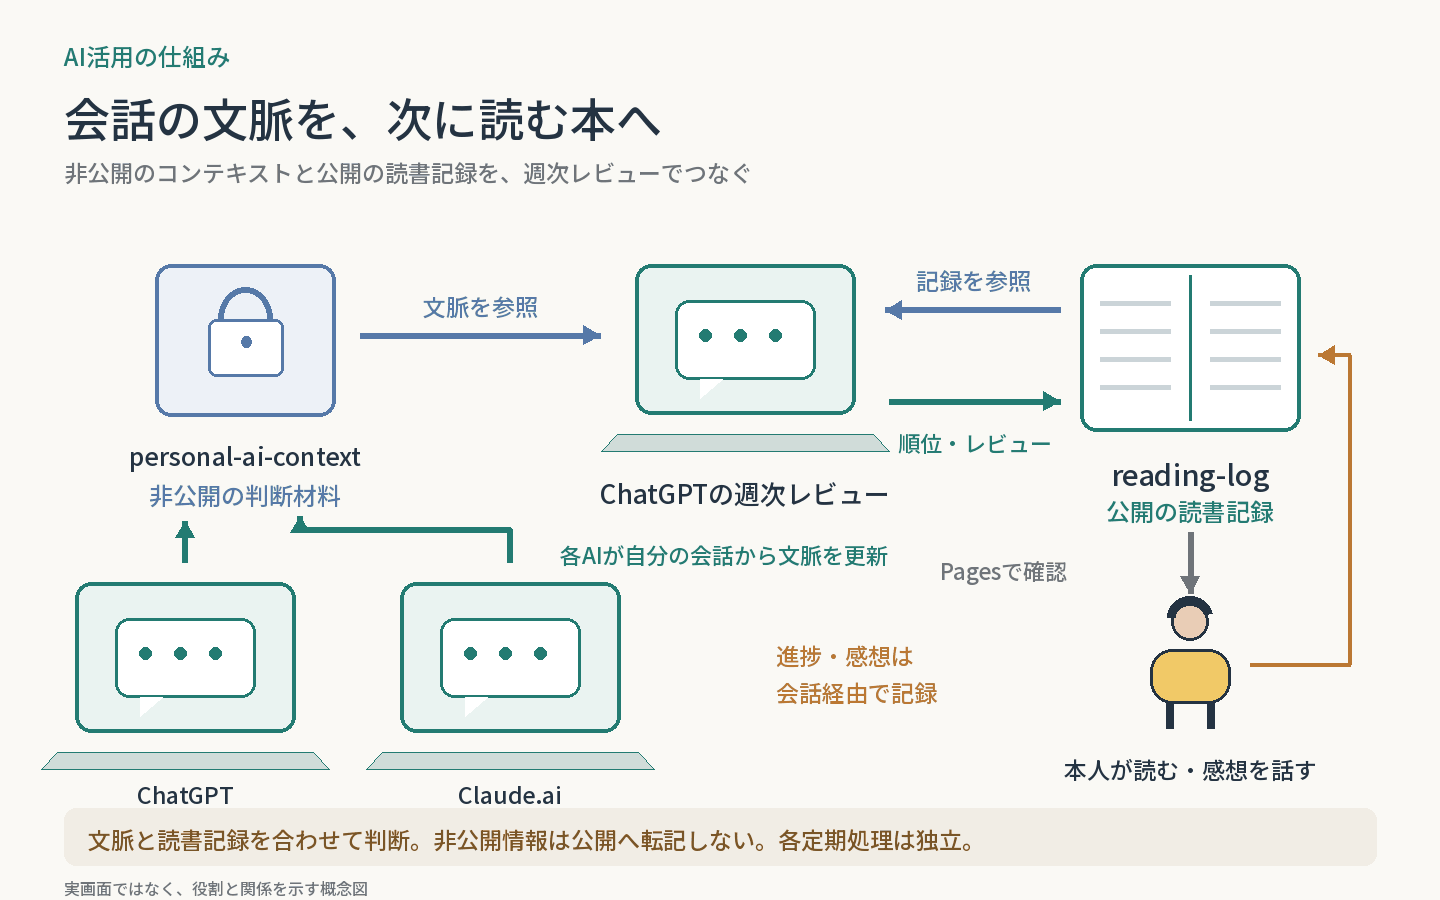
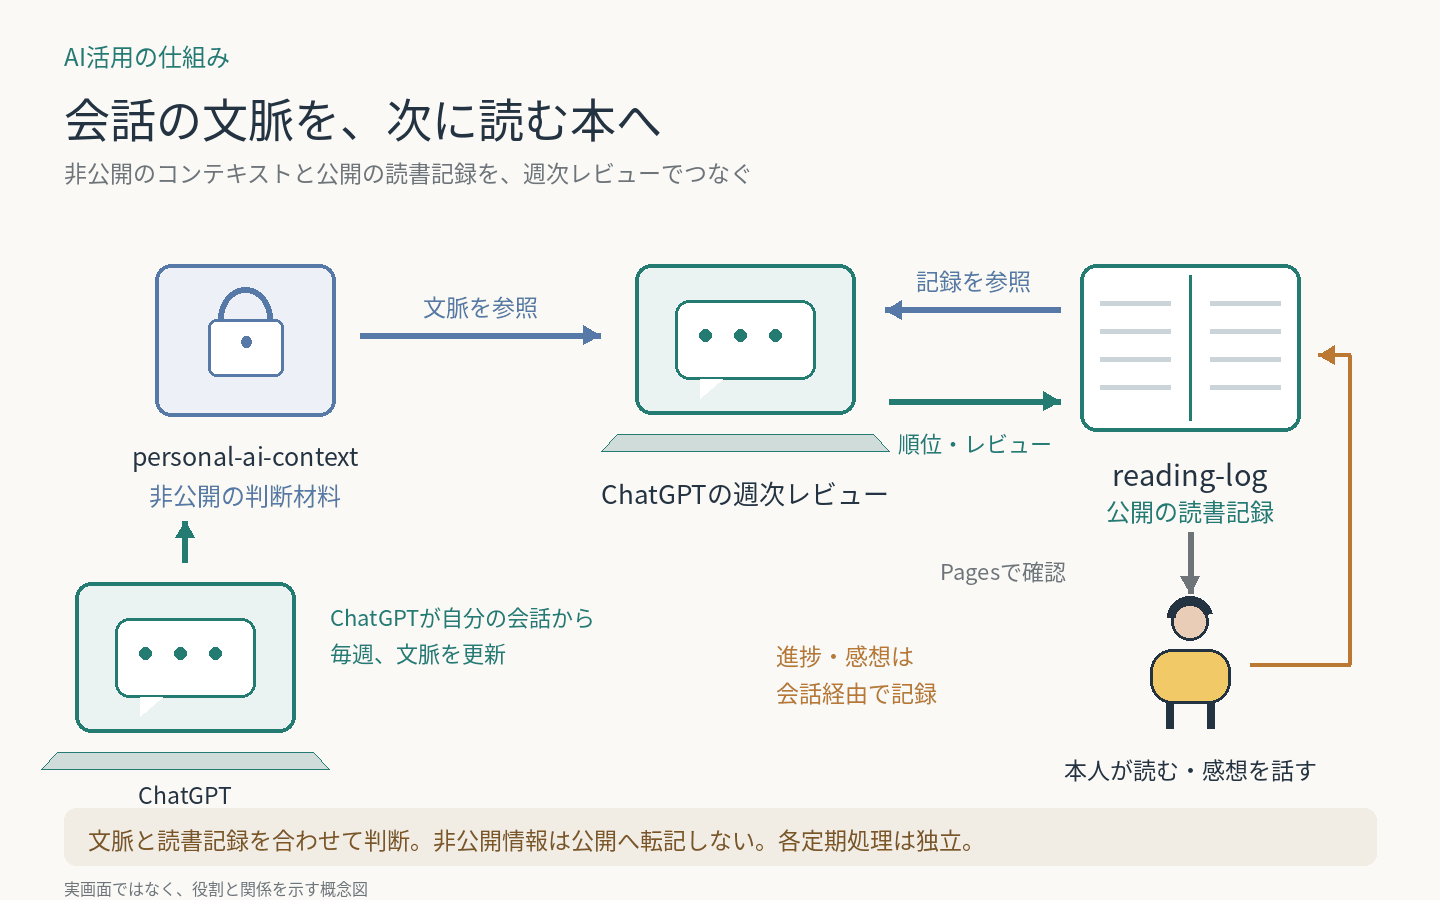
Update Claude-side overviews: Claude.ai weekly context update stopped, Todoist as the single inbox, morning triage vs board roles, board scope and monthly review; drop link to a private repo

diff --git a/systems/daily-task-hub/figure.py b/systems/daily-task-hub/figure.py
@@ -15,7 +15,7 @@ f.centered(460, 480, 'ChatGPTの毎朝処理', 27)
 f.centered(460, 518, '①まずメールを仕分け', 23, f.GRAY)
 f.arrow([(604, 348), (685, 348), (685, 398)])
 f.d.polygon([(745,222),(786,222),(786,280),(765,267),(745,280)],fill=f.TEAL)
-f.centered(767,190,'週次の振り分け',21,f.TEAL)
+f.centered(767,190,'頼んだ時の振り分け',21,f.TEAL)
 f.centered(767,297,'保存→買い物',23,f.TEAL)
 f.arrow([(767,330),(767,374)],f.TEAL,4)
 f.checklist(700, 388, 135, 160)
@@ -40,5 +40,5 @@ f.d.polygon([(477, 646), (487, 656), (455, 681), (443, 684), (447, 672)], fill=f
 f.centered(423, 697, '手入力', 25)
 f.centered(423, 735, 'アプリ・ブラウザ', 20, f.GRAY)
 f.arrow([(515, 650), (650, 650), (650, 500)], f.BLUE)
-f.footer('①②は同じ毎朝の処理で順に実行（10/28〜）。週次の振り分けは独立して動く。')
+f.footer('①②は同じ毎朝の処理で順に実行（10/28〜）。振り分けは本人が頼んだときだけ動く。')
 f.im.quantize(colors=96).save(Path(__file__).with_name('cover.png'), optimize=True)

diff --git a/systems/context-reading-loop/figure.py b/systems/context-reading-loop/figure.py
@@ -30,11 +30,9 @@ f.arrow([(889, 401), (1060, 401)])
 f.centered(975, 426, '順位・レビュー', 22, f.TEAL)
 f.laptop(75, 582)
 f.centered(185, 777, 'ChatGPT', 23)
-f.laptop(400, 582)
-f.centered(510, 777, 'Claude.ai', 23)
 f.arrow([(185, 562), (185, 521)])
-f.arrow([(510, 562), (510, 530), (300, 530), (300, 516)])
-f.text(560, 538, '各AIが自分の会話から文脈を更新', 22, f.TEAL)
+f.text(330, 600, 'ChatGPTが自分の会話から', 22, f.TEAL)
+f.text(330, 636, '毎週、文脈を更新', 22, f.TEAL)
 f.person(1190, 653, .62)
 f.centered(1190, 752, '本人が読む・感想を話す', 23)
 f.arrow([(1190, 532), (1190, 593)], f.GRAY)

diff --git a/systems/daily-task-hub/README.md b/systems/daily-task-hub/README.md
@@ -7,19 +7,20 @@
 | 段階 | 担当と役割 |
 | --- | --- |
 | メールを拾う | ChatGPTの毎朝6時の処理が、最初にGmailを仕分けて要対応をInboxへ登録（2026-10-28まではClaude Codeのルーティンが7時に実行） |
-| 思いつきを入れる | 本人が音声指示、アプリ、ブラウザから入力。音声の中継アプリ・内部経路は未確認 |
-| 保存から買い物へ | ChatGPTのブックマーク整理で、近々買うものを買い物プロジェクトへ。初回登録を確認、週次設定済み |
+| 思いつきを入れる | 本人が音声指示、アプリ、ブラウザから入力。音声はiPhoneのアクションボタンからChatGPTの音声モードで頼み、ChatGPTのTodoist連携で入る（本人の説明。端末の設定は未検証） |
+| やりたいことを集める | ChatGPTの会話ごとに散らばっていた「やりたいこと」も、2026-10-30〜31にTodoistへ移した。ChatGPT側でテーマの進み具合をまとめていた窓口はやめ、受け皿をTodoistの1つにした（本人の判断） |
+| 保存から買い物へ | ChatGPTのブックマーク整理で、近々買うものを買い物プロジェクトへ。初回登録を確認。2026-10-30からは定期ではなく、本人が気づいたときに頼む（本人の判断） |
 | 集約する | Todoistがタスク管理の正本。主な整理対象はInbox。ブックマークからの買い物登録は別プロジェクトで、日次Inbox整理との自動連続実行は保証しない |
 | 整理する | 同じ毎朝の処理の続きで、メール由来を含むInboxの分類、親子関係、時間・委譲先、優先度、実施順を整理 |
 | 行動する | 本人が結果を確認して実行。タグ付けだけで別AIの作業が始まるわけではない |
 
 繰り返しプロジェクトは棚卸しから除外。他プロジェクトの期限確認は読み取りだけ。整理の書き込みはInboxに限定する。
 
-**図は情報の流れを示す。メール仕分けとInbox整理は、2026-10-28から同じ毎朝の処理の中で順に動く。** それ以外の入力（音声・手入力・週次の振り分け）は、入った時点で後続処理が起動する連鎖ではない。
+**図は情報の流れを示す。メール仕分けとInbox整理は、2026-10-28から同じ毎朝の処理の中で順に動く。** それ以外の入力（音声・手入力・ブックマークの振り分け）は、入った時点で後続処理が起動する連鎖ではない。
 
-移行前の本人説明にあったメール登録の「最大5件」は、移行後の手順書には無いため図から外した。音声経路は本人説明に基づき、設定を直接検証していない。
+移行前の本人説明にあったメール登録の「最大5件」は、移行後の手順書には無いため図から外した。
 
-2026-10-21からは、整理後のTodoistを各リポジトリの作業・予定と並べて1日の時刻割りにする[横断タスクボード](../cross-task-board/)を別の全体構成として試用中。そこではClaude Codeが本人の指示を受けたときだけ、Todoistのタスクを完了・日付変更する。
+2026-10-21からは、整理後のTodoistを各リポジトリの作業・予定と並べて1日の時刻割りにする[横断タスクボード](../cross-task-board/)を別の全体構成として使っている。そこではClaude Codeが本人の指示を受けたときだけ、Todoistのタスクを完了・日付変更する。2026-10-31に役割を分けた。順番を気にせず「今日やるべきこと」を決めるのはこの毎朝の整理、本腰を入れてPCで作業するときの細かい順番を決めるのが横断タスクボード（本人の判断）。
 
 関連する個別ケース：[メール仕分け](../../cases/daily-email-triage/) ／ [Todoist整理](../../cases/daily-todoist-triage/) ／ [ブックマーク整理](../../cases/bookmark-to-action/)
 

diff --git a/systems/context-reading-loop/README.md b/systems/context-reading-loop/README.md
@@ -1,23 +1,23 @@
 # 会話の文脈を、次に読む本へつなぐ
 
-![複数AIの会話を非公開コンテキストへ残し、読書記録と合わせて週次レビューする全体図](cover.png)
+![ChatGPTの会話を非公開コンテキストへ残し、読書記録と合わせて週次レビューする全体図](cover.png)
 
-ChatGPTとClaude.aiが、それぞれの会話から長期的に必要な差分をpersonal-ai-contextへ整理する。読書レビューは、この文脈・参照できる最近の会話・reading-logの読書記録を合わせて、次に読む本を判断する。
+ChatGPTが、会話から長期的に必要な差分を毎週personal-ai-contextへ整理する。読書レビューは、この文脈・参照できる最近の会話・reading-logの読書記録を合わせて、次に読む本を判断する。
 
 | 正本・処理 | 担うこと |
 | --- | --- |
-| personal-ai-context（非公開） | 目標・判断基準・継続的な制約。各AIが自サービスの差分を更新し、最新mainを共有 |
+| personal-ai-context（非公開） | 目標・判断基準・継続的な制約。ChatGPTが会話の差分を毎週更新し、どのAIも最新mainを読む |
 | reading-log（公開） | 本、進捗、本人の感想、読後アクション、読む順位、週次レビュー |
 | ChatGPTの週次読書レビュー | 両方の正本と取得できた会話を参照。reading_order・レビューをreading-logへ反映 |
 | GitHub Pages・本人 | 本棚と「次に読む」を見て読む。進捗・感想を会話経由で再びreading-logへ記録 |
 
 **読書レビューからpersonal-ai-contextへは書き戻さない。** 非公開情報は判断材料にとどめ、公開の順位理由は必要な範囲へ一般化する。会話全文は公開しない。
 
-定例更新のルールはChatGPT→Claude.aiの順で時間をずらし、どちらも書き込み直前に最新mainを確認する。読書レビューは実行時に取得できる最新状態を使い、同じ週のコンテキスト更新完了を待つイベント連鎖ではない。
+定例更新はChatGPTの週1回だけで、書き込み直前に最新mainを確認する。2026-10-30まではClaude.aiの会話からも週1回更新していたが、Claude.aiではほとんど会話しないため止めた（本人の判断。Claude側の定期実行は無効にしたことを設定で確認）。読書レビューは実行時に取得できる最新状態を使い、同じ週のコンテキスト更新完了を待つイベント連鎖ではない。
 
-連携仕様とChatGPT側の有効設定を確認。Claude側の現行設定、毎回の保存成功、推薦の効果は今回検証していない。
+連携仕様とChatGPT側の有効設定を確認。毎回の保存成功、推薦の効果は検証していない。
 
 関連する個別ケース：[定期レビュー](../../cases/scheduled-reviews/)  
-外部の正本：[reading-log](https://github.com/n-yoshida-dev/reading-log) ／ [personal-ai-context（非公開）](https://github.com/n-yoshida-dev/personal-ai-context)
+外部の正本：[reading-log](https://github.com/n-yoshida-dev/reading-log) ／ personal-ai-context（非公開のためリンクなし）
 
 [全体構成一覧](../README.md) ／ [トップ](../../README.md)
